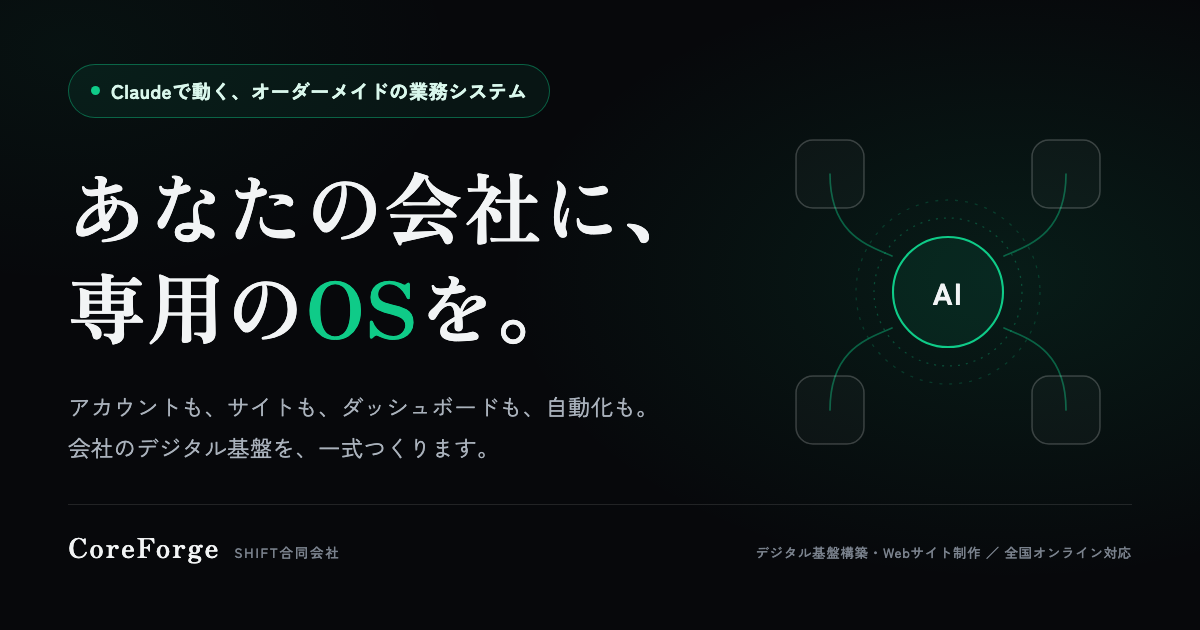
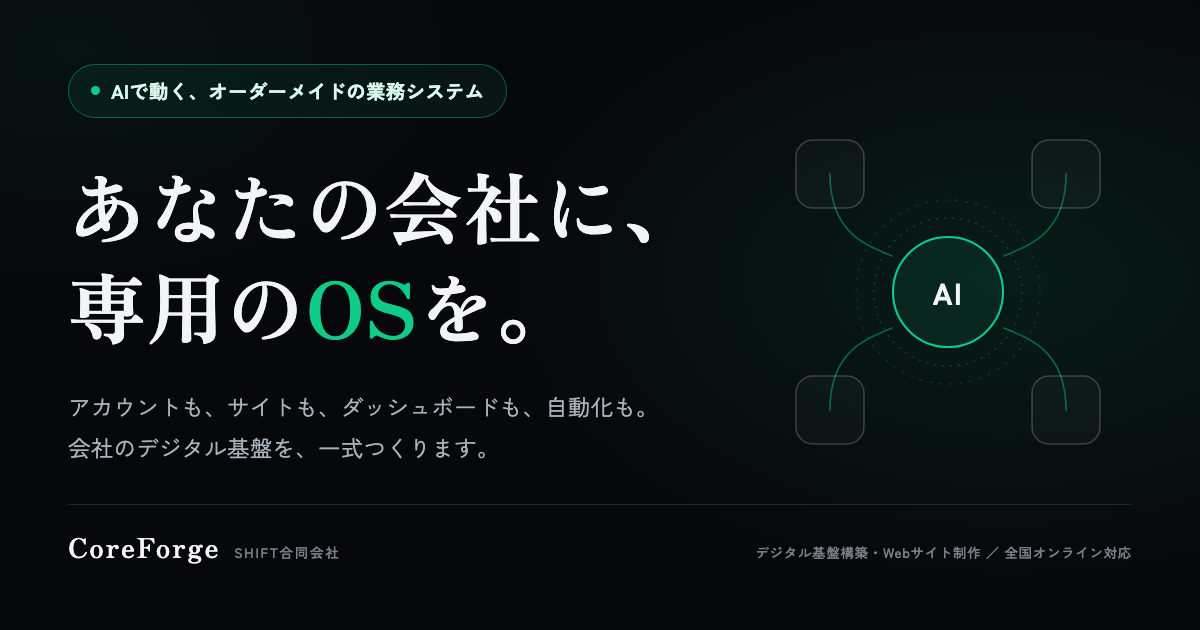
Stop naming Claude anywhere on the site
Guto's call: the vendor name comes off the page entirely. The capability
stays, so every mention becomes generic AI rather than disappearing — the
AI setup product still sells AI, it just no longer sells a brand.

Twenty-two mentions across the hero pill and copy, the diagram step, the
scope row, two pricing rows, the third-party cost disclosure, the meta
description, the Open Graph description, the JSON-LD, and two source
comments. The share card was regenerated too: its text is pixels, so the
rename trap applies every time a headline word changes.

Prices unchanged. The argument that the low price is justified by building
with AI is now off the page, and adjusting for that is a separate decision
Guto has parked. Worth noting the page already carries a non-AI
justification: client-owned accounts and zero middleman margin.

Verified: no occurrence of the name in the rendered DOM, no overflow, no
horizontal scroll, detector unchanged at its two standing warnings.

Changed region(s): [[0.0925, 0.1206, 0.4317, 0.181]]

diff --git a/index.html b/index.html
@@ -4,12 +4,12 @@
 <meta charset="utf-8">
 <meta name="viewport" content="width=device-width, initial-scale=1">
 <title>CoreForge｜あなたの会社に、専用のOSを。</title>
-<meta name="description" content="会社のデジタル基盤を一式構築。アカウント開設・ドメイン・Webサイト・フォルダ・スプレッドシート・ダッシュボード・自動化、そしてClaudeの設置まで。ゼロからでも、いまの仕組みの作り直しでも。東京・SHIFT合同会社。">
+<meta name="description" content="会社のデジタル基盤を一式構築。アカウント開設・ドメイン・Webサイト・フォルダ・スプレッドシート・ダッシュボード・自動化、そしてAIの設置まで。ゼロからでも、いまの仕組みの作り直しでも。東京・SHIFT合同会社。">
 <meta name="theme-color" content="#07080b">
 <meta property="og:type" content="website">
 <meta property="og:locale" content="ja_JP">
 <meta property="og:title" content="CoreForge｜あなたの会社に、専用のOSを。">
-<meta property="og:description" content="アカウントもドメインもサイトもフォルダもダッシュボードも自動化も、そしてClaudeも。会社のデジタル基盤を一式つくります。">
+<meta property="og:description" content="アカウントもドメインもサイトもフォルダもダッシュボードも自動化も、そしてAIも。会社のデジタル基盤を一式つくります。">
 <meta property="og:url" content="https://karassada.github.io/CoreForge/">
 <meta property="og:site_name" content="CoreForge ／ SHIFT合同会社">
 <meta property="og:image" content="https://karassada.github.io/CoreForge/og.png">
@@ -24,8 +24,8 @@
   "@context": "https://schema.org",
   "@type": "Service",
   "name": "CoreForge",
-  "serviceType": "デジタル基盤構築（Claude導入・自動化・ダッシュボード・Webサイト制作・アカウント設計）",
-  "description": "会社のデジタル基盤を一式構築します。Google Workspaceやドメインなど必要なアカウントの開設、フォルダ構造とスプレッドシート、ダッシュボード、Webサイト、自動化、そしてClaudeの設置と接続まで。構築後は月額プランで修正・改善に対応します。",
+  "serviceType": "デジタル基盤構築（AI導入・自動化・ダッシュボード・Webサイト制作・アカウント設計）",
+  "description": "会社のデジタル基盤を一式構築します。Google Workspaceやドメインなど必要なアカウントの開設、フォルダ構造とスプレッドシート、ダッシュボード、Webサイト、自動化、そしてAIの設置と接続まで。構築後は月額プランで修正・改善に対応します。",
   "url": "https://karassada.github.io/CoreForge/",
   "provider": {
     "@type": "Organization",
@@ -697,7 +697,7 @@ section.drench > * { position:relative; z-index:1; }
 
 .tiers-note { margin-top:clamp(12px,1.8vh,16px); font-size:clamp(11.5px,1vw,13px);
   color:var(--faint); line-height:1.8; }
-/* the "works without an AI account" caveat, under the Claude row.
+/* the "works without an AI account" caveat, under the AI row.
    A tinted block, not a side stripe. */
 .opt { display:block; margin-top:11px; padding:10px 13px; border-radius:11px;
   font-style:normal; background:rgba(15,203,136,.06);
@@ -862,14 +862,14 @@ footer { padding:clamp(30px,5vh,52px) clamp(20px,7vw,88px); border-top:1px solid
 <!-- 1 ── HERO ─────────────────────────────────────────────── -->
 <section class="full" id="hero">
   <div class="wrap">
-    <div class="badge rv"><span class="dot"></span><span data-en="Custom business systems, built on Claude">Claudeで動く、オーダーメイドの業務システム</span></div>
+    <div class="badge rv"><span class="dot"></span><span data-en="Custom business systems, built on AI">AIで動く、オーダーメイドの業務システム</span></div>
     <h1 class="disp h-hero">
       <span class="mask"><span data-en="Your business,">あなたの会社に、</span></span>
       <span class="mask m2"><span data-en="on its own &lt;em&gt;OS.&lt;/em&gt;">専用の<em>OS</em>を。</span></span>
     </h1>
     <p class="lede hero-sub rv d3"
-       data-en="We connect &lt;span class=&quot;nw&quot;&gt;Claude Code&lt;/span&gt;, the AI tool trending in businesses right now, to the tools you already use, then build the folder structure, the dashboards and the automations for each task, all in your brand. After that, changes and fixes are handled every month.">
-      現在使っているツール等に今ビジネス業界で話題の <span class="nw">Claude Code</span> をつなぎ、
+       data-en="We connect the AI every business is talking about right now to the tools you already use, then build the folder structure, the dashboards and the automations for each task, all in your brand. After that, changes and fixes are handled every month.">
+      現在使っているツール等に今ビジネス業界で話題のAIをつなぎ、
       フォルダ構成も、ダッシュボードも、作業別の自動化機能も、
       あなたのブランドに合わせて一式つくります。その後も、毎月の変更や修正に対応します。
     </p>
@@ -1054,7 +1054,7 @@ footer { padding:clamp(30px,5vh,52px) clamp(20px,7vw,88px); border-top:1px solid
       </svg>
 
       <div class="cap-chip" data-cap="1" style="top:1.6%"><em>1</em><span data-en="It comes in">入ってくる</span></div>
-      <div class="cap-chip" data-cap="2" style="top:42.6%"><em>2</em><span data-en="Claude reads and decides">Claudeが読んで、判断する</span></div>
+      <div class="cap-chip" data-cap="2" style="top:42.6%"><em>2</em><span data-en="AI reads and decides">AIが読んで、判断する</span></div>
       <div class="cap-chip" data-cap="3" style="top:53.8%"><em>3</em><span data-en="It gets organised">整理される</span></div>
       <div class="cap-chip" data-cap="4" style="top:74.6%"><em>4</em><span data-en="It comes back">返ってくる</span></div>
     </div>
@@ -1145,8 +1145,8 @@ footer { padding:clamp(30px,5vh,52px) clamp(20px,7vw,88px); border-top:1px solid
         <div class="row rv d5"><dt data-en="Something to look at">見えるかたち</dt>
           <dd data-en="&lt;b&gt;Not a template. Designed for you alone.&lt;/b&gt;A dashboard that shows the state of the business at a glance, a website, and a dedicated app where the work calls for one. All drawn from scratch around the value of your brand. We do not reuse somebody else’s template with the logo swapped out."><b>テンプレートではない、貴社だけのデザイン。</b>ひと目で経営や業務の状況が分かるダッシュボード、Webサイト、必要であれば専用のアプリまで。すべて貴社のブランド価値に合わせてゼロから描きます。他社のロゴを載せ替えただけの、ありきたりなテンプレートは使いません。</dd></div>
 
-        <div class="row rv d6"><dt data-en="Claude, set up properly">AIはClaudeで</dt>
-          <dd data-en="&lt;b&gt;A dedicated AI that understands your context.&lt;/b&gt;We build the system around Claude, an AI with world-leading intelligence, and connect it to the folders, the sheets and the dashboard. The plugins and integrations it needs are supplied by us. It is not an AI reciting generalities: it runs with a deep understanding of your company.&lt;i class=&quot;opt&quot;&gt;Most of what we build runs with no AI account at all. The AI layer alone can be removed later, and everything else keeps working.&lt;/i&gt;"><b>貴社の文脈を理解した、専属AI。</b>世界最高峰の知性を持つ「Claude」を中心にシステムを構築し、フォルダ、シート、ダッシュボードのすべてに接続します。必要なプラグインや連携システムもこちらで完備。一般論を語るAIではなく、「あなたの会社のこと」を深く理解した状態で稼働します。<i class="opt">仕組みの大部分は、AIのアカウントがなくても動きます。AIの部分だけを後から外すこともでき、そのときもほかはそのまま動き続けます。</i></dd></div>
+        <div class="row rv d6"><dt data-en="AI, set up properly">AIは、専属で</dt>
+          <dd data-en="&lt;b&gt;A dedicated AI that understands your context.&lt;/b&gt;We build the system around an AI with world-leading intelligence, and connect it to the folders, the sheets and the dashboard. The plugins and integrations it needs are supplied by us. It is not an AI reciting generalities: it runs with a deep understanding of your company.&lt;i class=&quot;opt&quot;&gt;Most of what we build runs with no AI account at all. The AI layer alone can be removed later, and everything else keeps working.&lt;/i&gt;"><b>貴社の文脈を理解した、専属AI。</b>世界最高峰の知性を持つAIを中心にシステムを構築し、フォルダ、シート、ダッシュボードのすべてに接続します。必要なプラグインや連携システムもこちらで完備。一般論を語るAIではなく、「あなたの会社のこと」を深く理解した状態で稼働します。<i class="opt">仕組みの大部分は、AIのアカウントがなくても動きます。AIの部分だけを後から外すこともでき、そのときもほかはそのまま動き続けます。</i></dd></div>
 
         <div class="row rv d6"><dt data-en="It stays yours">データは会社のもの</dt>
           <dd data-en="&lt;b&gt;Every asset, in your own account.&lt;/b&gt;All of your data is stored in your own company accounts. Backups are kept automatically. Because nothing is typed by hand, mistyping cannot happen. And in the event our contract ends, the system we built and the data both stay with you."><b>すべての資産は、自社のアカウントに。</b>すべてのデータの保存先は、お客様ご自身の自社アカウントです。バックアップ（控え）も自動で残ります。手入力がないため打ち間違いのミスも起きません。万が一、弊社との契約が終了しても、構築したシステムとデータはすべて手元に残り続けます。</dd></div>
@@ -1177,7 +1177,7 @@ footer { padding:clamp(30px,5vh,52px) clamp(20px,7vw,88px); border-top:1px solid
               <td class="what" data-en="A paid session to map how the work moves today and what should be built. Credited in full against the build if you go ahead.">いまの業務の流れと、何をつくるべきかを洗い出す有料の診断。構築に進む場合は、全額を費用に充当します。</td></tr>
           <tr class="pick"><td class="plan" data-en="Full build&lt;span class='tag'&gt;Recommended&lt;/span&gt;">フルビルド<span class="tag">おすすめ</span></td>
               <td class="n tnum" data-l="構築費（税別）" data-dl="Build (excl. tax)">¥1,000,000 〜 ¥1,800,000</td>
-              <td class="what" data-en="A complete set that turns a company into a system from nothing.&lt;br&gt;Accounts, the domain, company email, the folder structure, spreadsheets, the website, the dashboard, the automations, and Claude connected to all of it.">会社をゼロから仕組み化する一式。<br>アカウント、ドメイン、会社メール、フォルダ構造、スプレッドシート、Webサイト、ダッシュボード、自動化、そしてすべてに接続したClaudeまで。</td></tr>
+              <td class="what" data-en="A complete set that turns a company into a system from nothing.&lt;br&gt;Accounts, the domain, company email, the folder structure, spreadsheets, the website, the dashboard, the automations, and AI connected to all of it.">会社をゼロから仕組み化する一式。<br>アカウント、ドメイン、会社メール、フォルダ構造、スプレッドシート、Webサイト、ダッシュボード、自動化、そしてすべてに接続したAIまで。</td></tr>
           <tr><td class="plan" data-en="Rebuild &amp; improve">導入・改善</td>
               <td class="n tnum" data-l="構築費（税別）" data-dl="Build (excl. tax)">¥350,000 〜 ¥700,000</td>
               <td class="what" data-en="We interview you about the workflows already running, find what is holding them back, then tune and automate them. Consulting, design and implementation are all included.">すでに動いている業務フローをヒアリングし、課題を見つけてチューニング・自動化します。コンサルティングと設計、実装までを含みます。</td></tr>
@@ -1189,7 +1189,7 @@ footer { padding:clamp(30px,5vh,52px) clamp(20px,7vw,88px); border-top:1px solid
               <td class="what" data-en="Scattered data visualised on one screen. A cockpit for the business, where what is happening right now is clear at a glance.">散らばったデータを一画面に可視化。「今、何が起きているか」がひと目で分かる経営の操縦席を作ります。</td></tr>
           <tr><td class="plan" data-en="AI setup only">AIセットアップ（単品）</td>
               <td class="n tnum" data-l="構築費（税別）" data-dl="Build (excl. tax)">¥150,000 〜 ¥350,000</td>
-              <td class="what" data-en="Claude built specifically around your operations, with the environment and plugins connected so it never stops at generalities.">貴社の業務に特化させたClaudeを構築。一般論で終わらせないための環境とプラグインを連携します。</td></tr>
+              <td class="what" data-en="AI built specifically around your operations, with the environment and plugins connected so it never stops at generalities.">貴社の業務に特化させたAIを構築。一般論で終わらせないための環境とプラグインを連携します。</td></tr>
           <tr><td class="plan" data-en="Enterprise">エンタープライズ</td>
               <td class="n tnum" data-l="構築費（税別）" data-dl="Build (excl. tax)">¥2,500,000〜</td>
               <td class="what" data-en="Several sites or departments, multiple systems running alongside each other, and a longer build. Quoted individually.">複数拠点・複数部門、システムが何本も並走する規模。個別にお見積りします。</td></tr>
@@ -1229,8 +1229,8 @@ footer { padding:clamp(30px,5vh,52px) clamp(20px,7vw,88px); border-top:1px solid
       <p data-en="※ All figures shown exclude consumption tax. They are a guide, not a confirmed quote. The actual cost varies with the number of tools to be connected and the volume of systems and data you already hold. We always go through your situation in detail first, and present a fixed figure before any contract is signed or any work begins.">
         ※ 表記の金額はすべて税別表示です。金額は目安であり、確定したお見積もりではありません。実際の費用は、連携するツールの数や、現在すでにお持ちのシステム・データの量によって変動します。必ず事前にお話を詳しく伺ったうえで、ご契約・着手前に確定した金額をご提示しますのでご安心ください。
       </p>
-      <p data-en="&lt;b&gt;[About third-party service fees]&lt;/b&gt;The monthly subscription and usage fees for the external services the system needs to run &lt;span class=&quot;nw&quot;&gt;(Google Workspace&lt;/span&gt;, Claude, Cloudflare, &lt;span class=&quot;nw&quot;&gt;Google Cloud&lt;/span&gt; and so on) are paid by you directly, at cost. Every one of them is contracted under your own accounts, so no middleman margin arises at any point.">
-        <b>【ツールのご利用料金について】</b>システムの維持・運用に必要な各種外部サービス<span class="nw">（Google Workspace</span>、Claude、Cloudflare、<span class="nw">Google Cloud</span>など）の月額サブスクリプション費用や利用料は、お客様ご自身でのご負担（実費）となります。すべてお客様のアカウントで直接ご契約いただくため、中間マージンなどは一切発生いたしません。
+      <p data-en="&lt;b&gt;[About third-party service fees]&lt;/b&gt;The monthly subscription and usage fees for the external services the system needs to run &lt;span class=&quot;nw&quot;&gt;(Google Workspace&lt;/span&gt;, Cloudflare, &lt;span class=&quot;nw&quot;&gt;Google Cloud&lt;/span&gt;, AI services and so on) are paid by you directly, at cost. Every one of them is contracted under your own accounts, so no middleman margin arises at any point.">
+        <b>【ツールのご利用料金について】</b>システムの維持・運用に必要な各種外部サービス<span class="nw">（Google Workspace</span>、Cloudflare、<span class="nw">Google Cloud</span>、AIサービスなど）の月額サブスクリプション費用や利用料は、お客様ご自身でのご負担（実費）となります。すべてお客様のアカウントで直接ご契約いただくため、中間マージンなどは一切発生いたしません。
       </p>
     </div>
   </div>
@@ -1366,7 +1366,7 @@ function phrase(root) {
       if (!u.trim()) { frag.append(u); continue; }        // keep real spaces breakable
       /* Whitespace must stay OUTSIDE the inline-block: a space at the edge
          of one collapses, which silently closes the gap around Latin words
-         embedded in Japanese (「話題の Claude Code をつなぎ」). */
+         embedded in Japanese (e.g. 「Google Workspace」). */
       const lead = u.match(/^\s*/)[0];
       const tail = u.match(/\s*$/)[0];
       if (lead) frag.append(lead);
